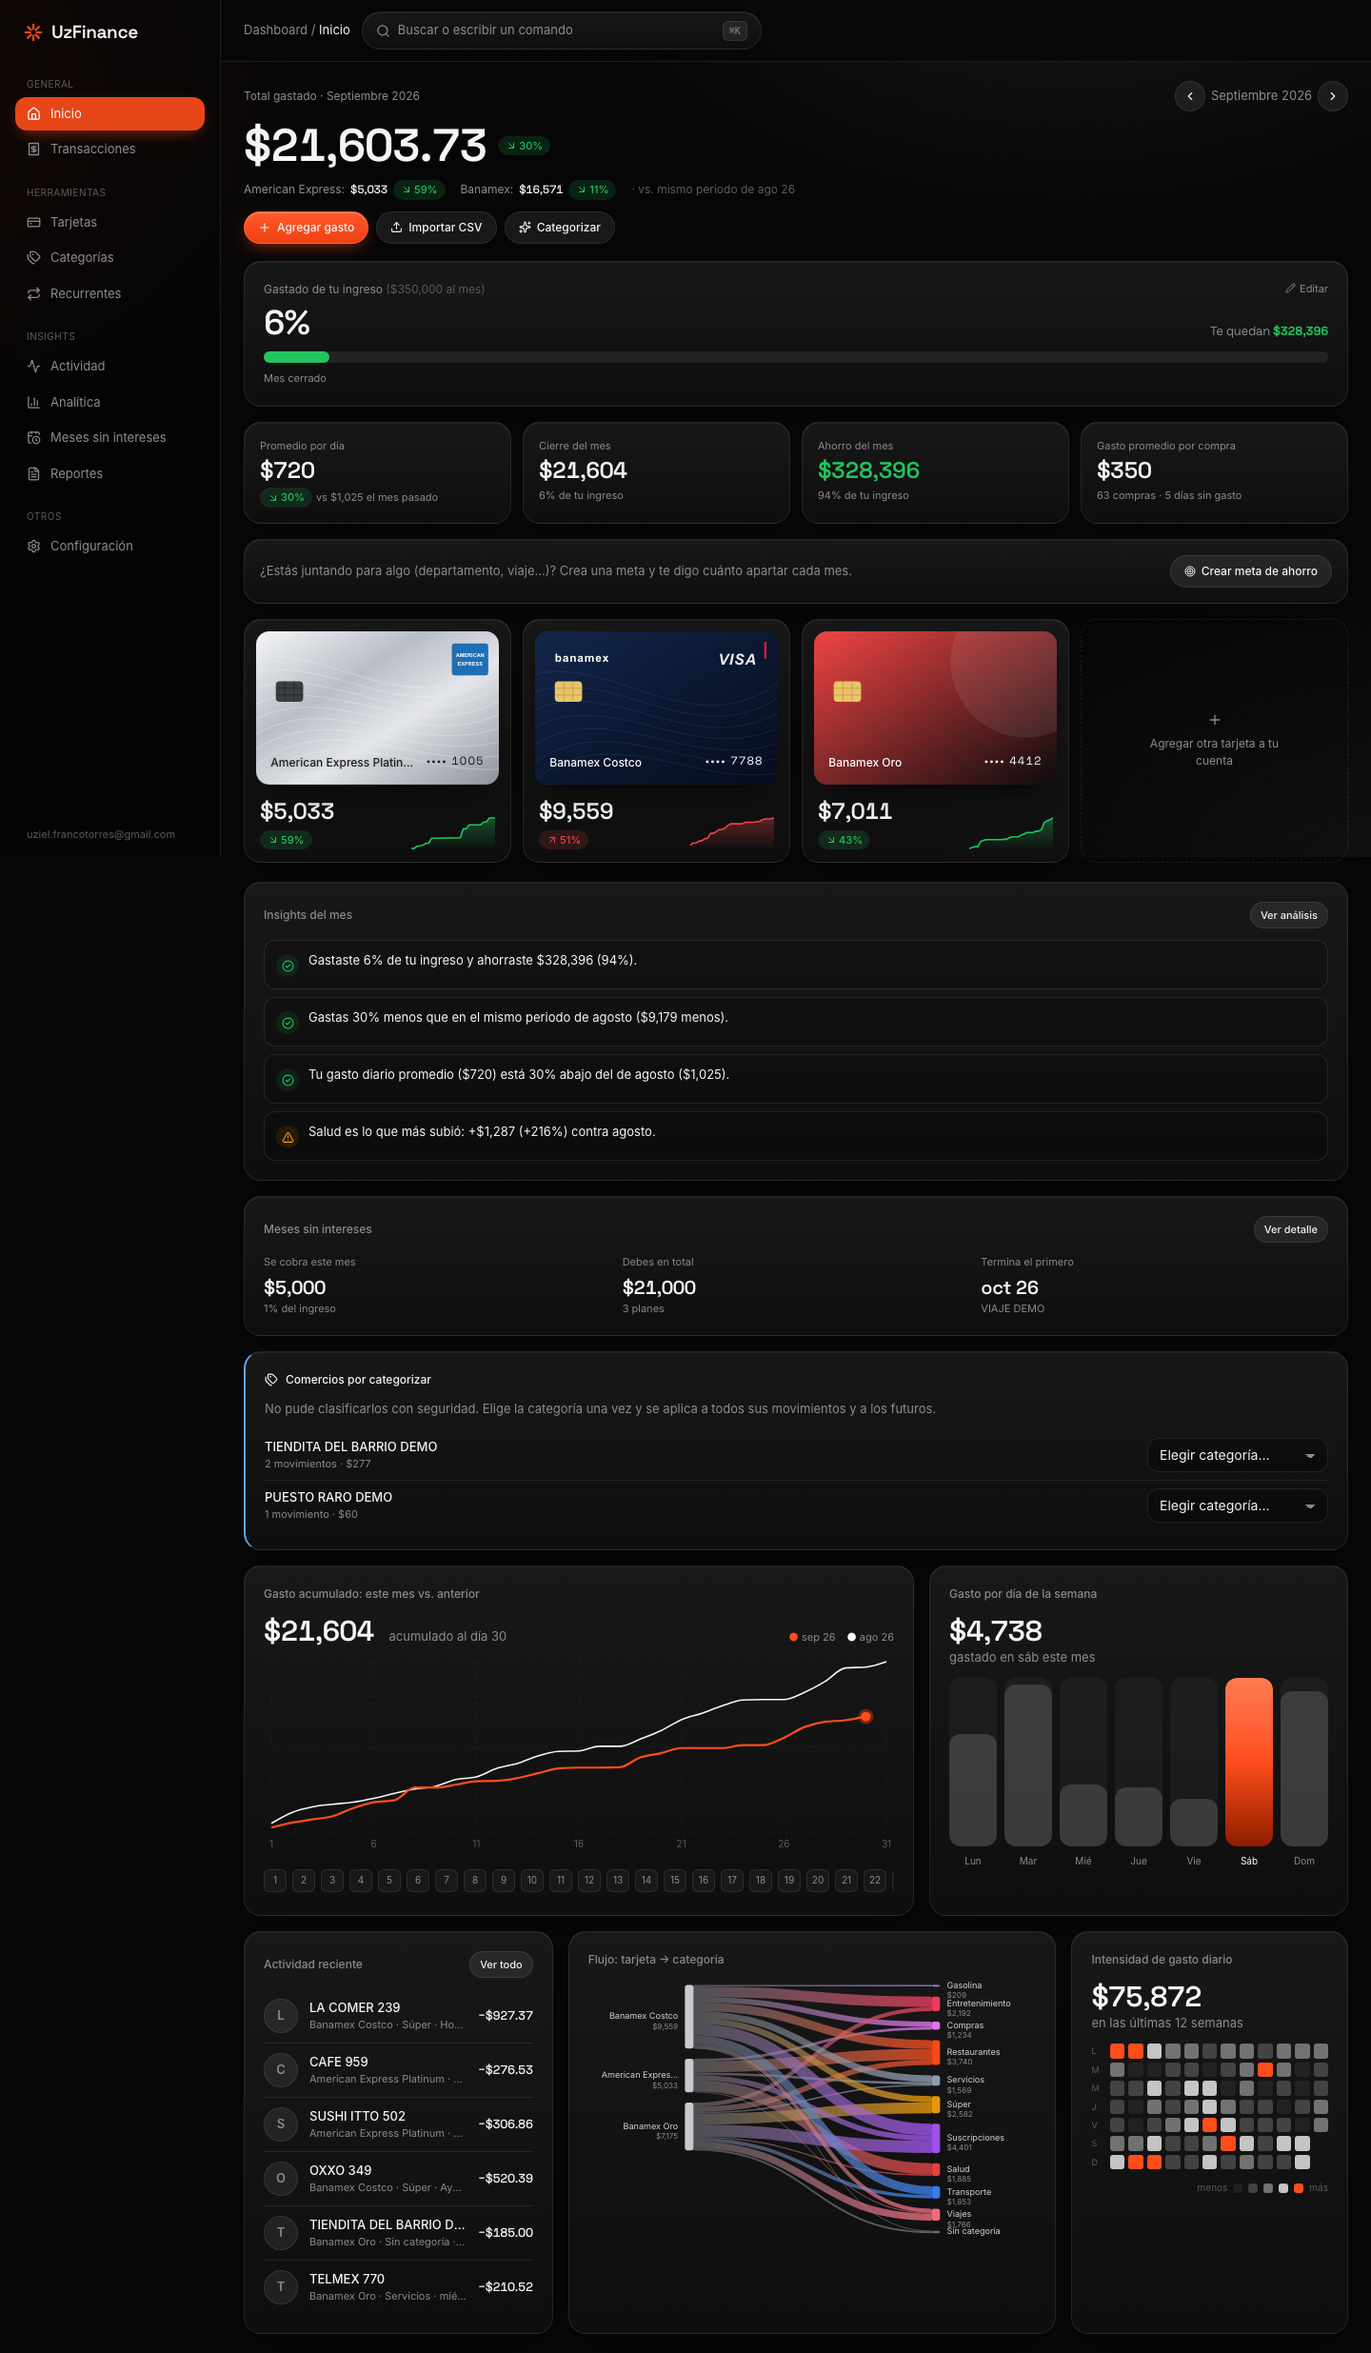
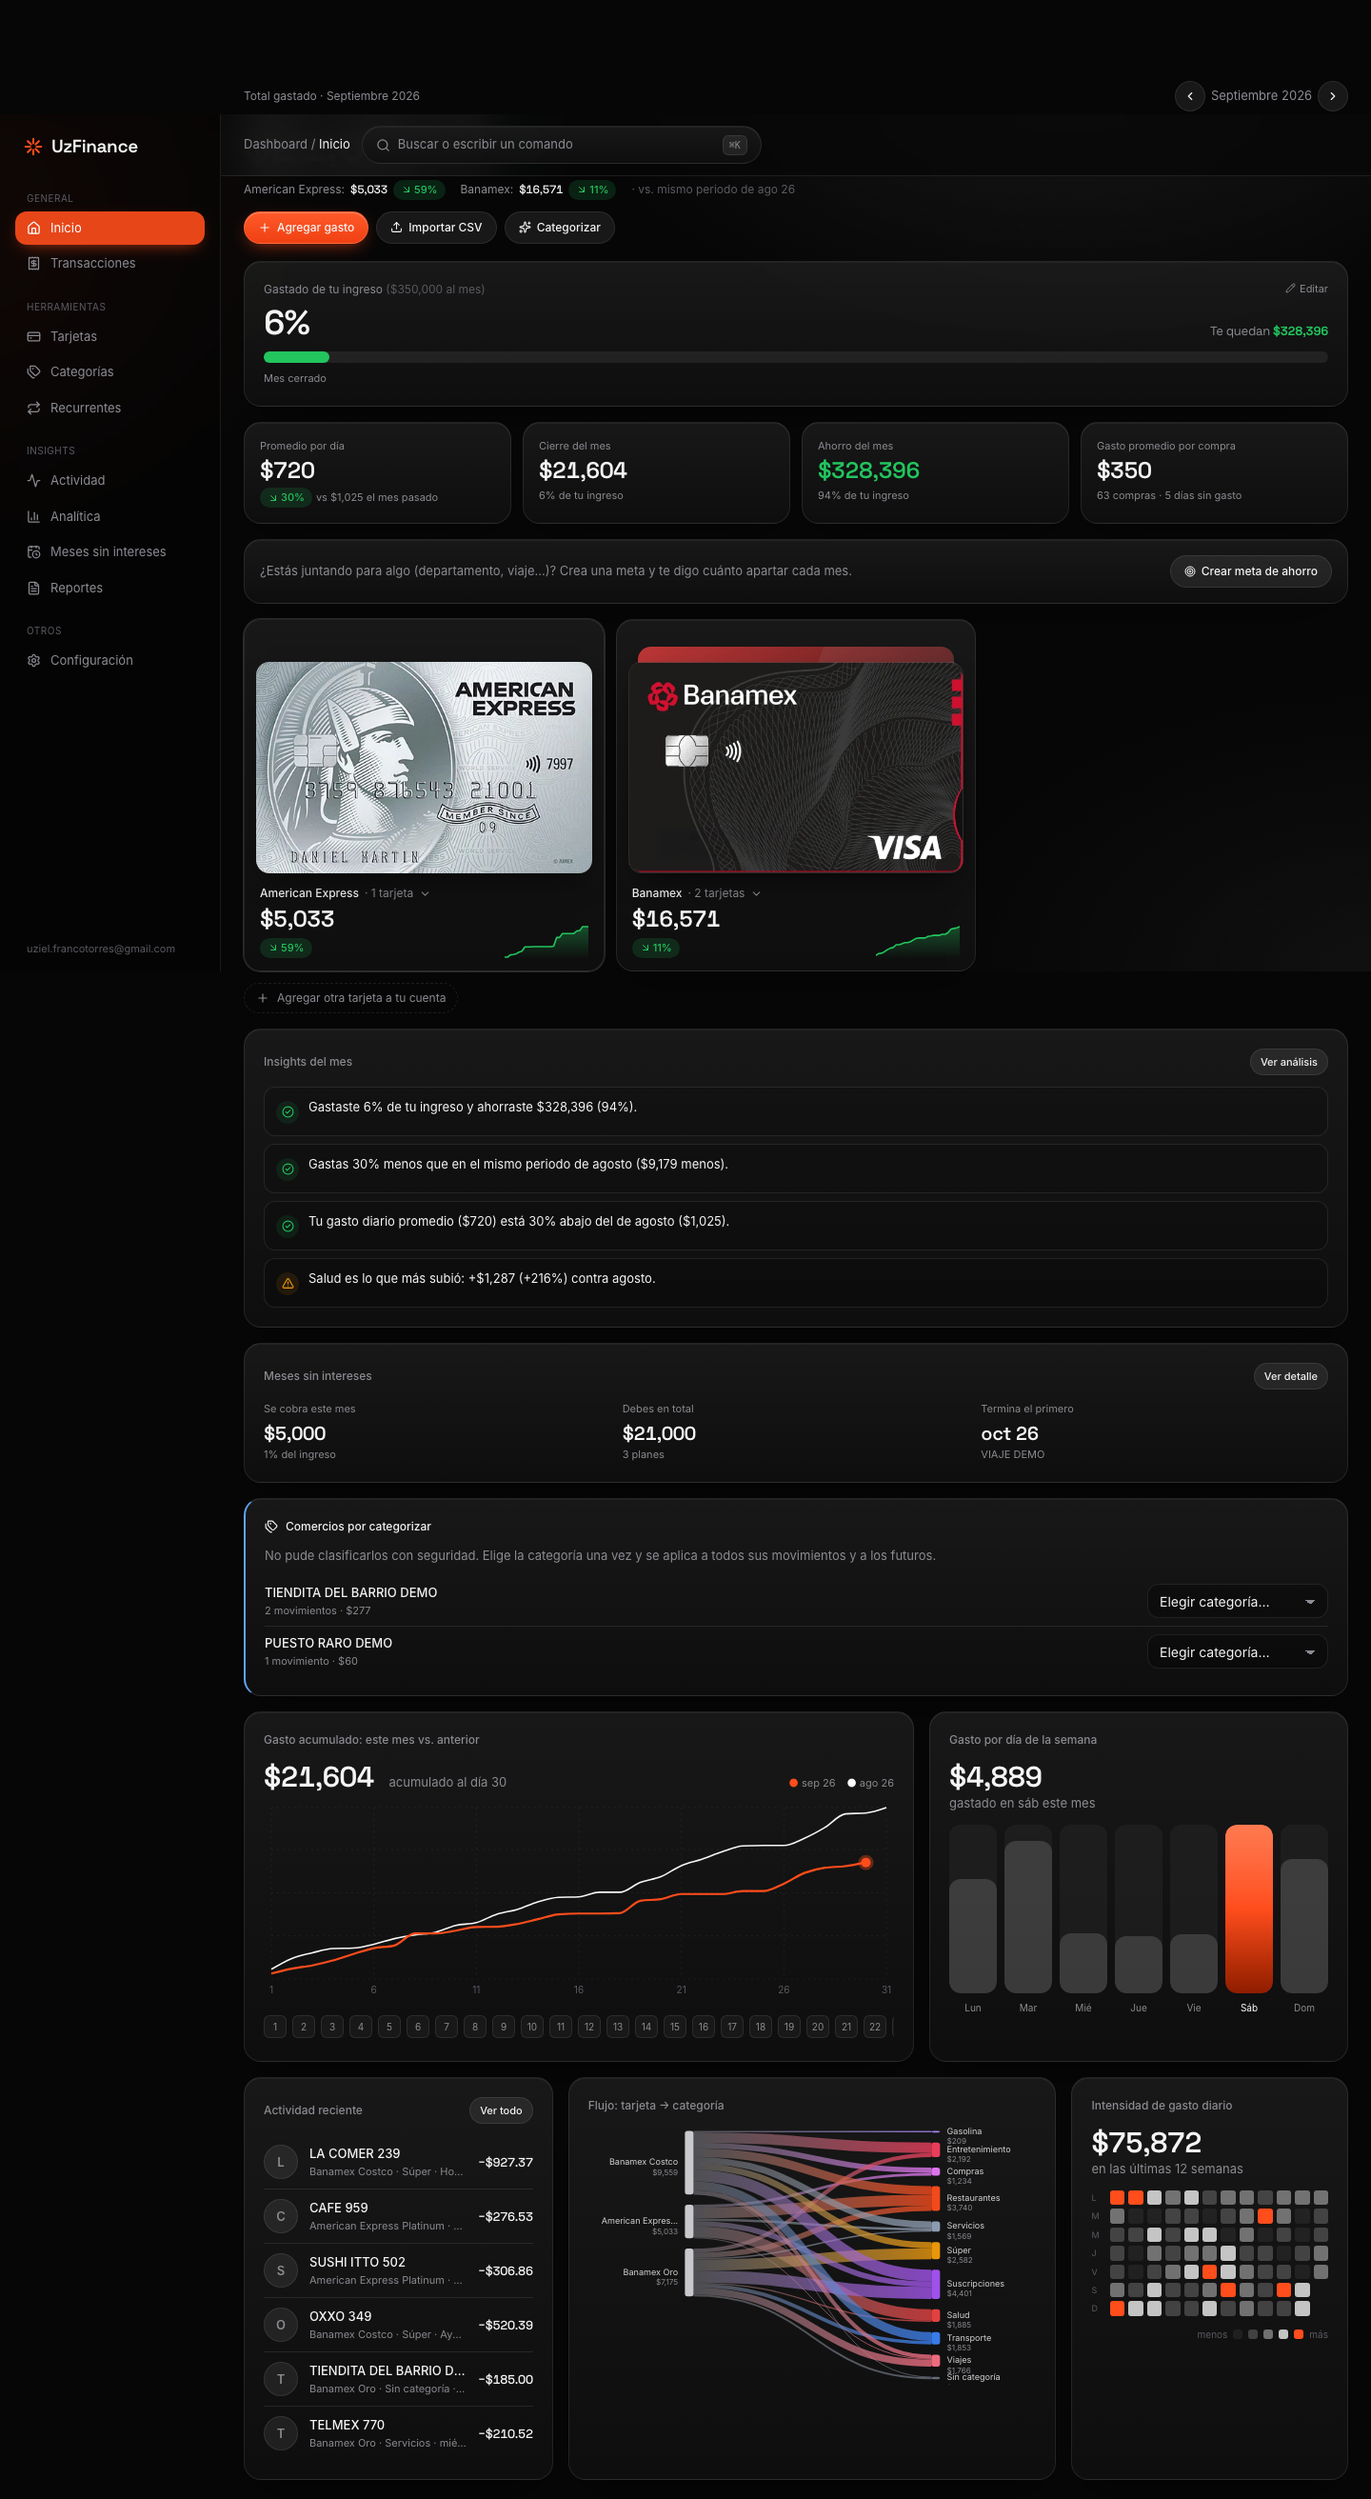
Inicio: tarjetero por banco con las imágenes reales de las tarjetas
- Montón por banco (Amex, Banamex, Nu) que despliega sus tarjetas al tocarlo.
- Fotos reales (webp) para Amex Platinum, Explora, Costco y Nu; débito, Clásica y Domiciliación siguen en SVG.

diff --git a/src/components/CardWallet.tsx b/src/components/CardWallet.tsx
@@ -1,0 +1,138 @@
+"use client";
+
+import { ChevronDown, Plus } from "lucide-react";
+import Link from "next/link";
+import { useState } from "react";
+import { resolveArt } from "@/lib/card-art";
+import { ISSUER_LABEL } from "@/lib/format";
+import { formatMXN } from "@/lib/money";
+import type { CardArtId, Issuer } from "@/lib/types";
+import { CardArt } from "./CardArt";
+import { Sparkline } from "./charts/Sparkline";
+import { Delta } from "./ui/Delta";
+
+export type WalletCard = {
+  id: number;
+  name: string;
+  issuer: Issuer;
+  last4: string | null;
+  color: string;
+  art: CardArtId | null;
+  cents: number;
+  prevCents: number;
+  deltaPct: number | null;
+  spark: number[];
+};
+
+const ORDER: Issuer[] = ["amex", "banamex", "nu", "other"];
+const PEEK = 16; // px que asoma cada tarjeta de atrás
+
+/** Diseños que van al frente del montón: las tarjetas de crédito con foto antes que el débito o las genéricas. */
+const FRONT: CardArtId[] = ["banamex-explora", "banamex-costco", "amex-platinum", "nu", "banamex-clasica", "banamex-debito", "generic"];
+
+/** Hasta 3 diseños distintos (los de crédito primero, y entre iguales los de más gasto) para el montón del tarjetero. */
+function stackOf(cards: WalletCard[]): WalletCard[] {
+  const seen = new Set<string>();
+  const out: WalletCard[] = [];
+  const rank = (c: WalletCard) => FRONT.indexOf(resolveArt(c));
+  for (const c of [...cards].sort((a, b) => rank(a) - rank(b) || b.cents - a.cents)) {
+    const art = resolveArt(c);
+    if (seen.has(art)) continue;
+    seen.add(art);
+    out.push(c);
+    if (out.length === 3) break;
+  }
+  return out;
+}
+
+function sumSpark(cards: WalletCard[]): number[] {
+  const len = Math.max(0, ...cards.map((c) => c.spark.length));
+  return Array.from({ length: len }, (_, i) => cards.reduce((a, c) => a + (c.spark[i] ?? 0), 0));
+}
+
+function Stack({ cards }: { cards: WalletCard[] }) {
+  const n = cards.length;
+  // Misma altura en todos los bancos (frente alineado): siempre se reservan 2 franjas de "asomo".
+  return (
+    <div className="relative" style={{ paddingTop: 2 * PEEK }} aria-hidden>
+      {cards.map((c, k) =>
+        k === 0 ? (
+          <div key={c.id} className="relative" style={{ zIndex: n }}><CardArt card={c} compact bare /></div>
+        ) : (
+          <div key={c.id} className="absolute brightness-[.8]" style={{ top: (2 - k) * PEEK, left: `${k * 3}%`, right: `${k * 3}%`, zIndex: n - k }}>
+            <CardArt card={c} compact bare />
+          </div>
+        ),
+      )}
+    </div>
+  );
+}
+
+/** Tarjetero: un montón por banco; al tocarlo se despliegan sus tarjetas con el detalle. */
+export function CardWallet({ cards }: { cards: WalletCard[] }) {
+  const [open, setOpen] = useState<Issuer | null>(null);
+  const groups = ORDER.map((issuer) => {
+    const list = cards.filter((c) => c.issuer === issuer);
+    const cents = list.reduce((a, c) => a + c.cents, 0);
+    const prevCents = list.reduce((a, c) => a + c.prevCents, 0);
+    return { issuer, list, cents, prevCents, spark: sumSpark(list) };
+  }).filter((g) => g.list.length > 0);
+  const shown = groups.find((g) => g.issuer === open);
+
+  return (
+    <section aria-label="Tarjetas" className="flex flex-col gap-3">
+      <div className={`grid gap-3 ${groups.length >= 4 ? "sm:grid-cols-2 xl:grid-cols-4" : "sm:grid-cols-3"}`}>
+        {groups.map((g) => {
+          const label = ISSUER_LABEL[g.issuer];
+          const isOpen = g.issuer === open;
+          return (
+            <button
+              key={g.issuer}
+              type="button"
+              aria-expanded={isOpen}
+              aria-controls="wallet-detail"
+              aria-label={`${label}: ${g.list.length} ${g.list.length === 1 ? "tarjeta" : "tarjetas"}, ${formatMXN(g.cents)} este mes`}
+              onClick={() => setOpen(isOpen ? null : g.issuer)}
+              data-testid={`wallet-${g.issuer}`}
+              className={`glass flex flex-col gap-3 p-3 text-left transition-shadow focus-visible:outline-2 focus-visible:outline-offset-2 ${isOpen ? "ring-1 ring-white/30" : "hover:ring-1 hover:ring-white/15"}`}
+            >
+              <Stack cards={stackOf(g.list)} />
+              <div className="flex items-end justify-between gap-2 px-1">
+                <div className="min-w-0">
+                  <p className="flex items-center gap-1.5 text-[12px] text-muted">
+                    <span className="font-medium text-fg">{label}</span> · {g.list.length} {g.list.length === 1 ? "tarjeta" : "tarjetas"}
+                    <ChevronDown size={13} aria-hidden className={`transition-transform ${isOpen ? "rotate-180" : ""}`} />
+                  </p>
+                  <p className="num mt-0.5 text-2xl font-semibold">{formatMXN(g.cents, { compact: true })}</p>
+                  <div className="mt-1"><Delta pct={g.prevCents > 0 ? ((g.cents - g.prevCents) / g.prevCents) * 100 : null} label="sin base" /></div>
+                </div>
+                <div className="w-[88px] shrink-0"><Sparkline values={g.spark} label={label} color={g.prevCents > 0 && g.cents > g.prevCents ? "#ef4444" : "#22c55e"} /></div>
+              </div>
+            </button>
+          );
+        })}
+      </div>
+
+      {shown && (
+        <div id="wallet-detail" role="region" aria-label={`Tarjetas ${ISSUER_LABEL[shown.issuer]}`} className="-mx-4 flex snap-x snap-mandatory gap-3 overflow-x-auto px-4 pb-1 sm:mx-0 sm:grid sm:grid-cols-2 sm:overflow-visible sm:px-0 xl:grid-cols-4">
+          {shown.list.map((c) => (
+            <article key={c.id} className="glass flex w-[236px] shrink-0 snap-start flex-col gap-3 p-3 sm:w-auto" aria-label={c.name}>
+              <CardArt card={c} />
+              <div className="flex items-end justify-between gap-2 px-1">
+                <div>
+                  <p className="num text-2xl font-semibold">{formatMXN(c.cents, { compact: true })}</p>
+                  <div className="mt-1"><Delta pct={c.deltaPct} label="sin base" /></div>
+                </div>
+                <div className="w-[88px]"><Sparkline values={c.spark} label={c.name} color={c.deltaPct !== null && c.deltaPct > 0 ? "#ef4444" : "#22c55e"} /></div>
+              </div>
+            </article>
+          ))}
+        </div>
+      )}
+
+      <Link href="/tarjetas?new=1" className="inline-flex items-center gap-2 self-start rounded-full border border-dashed border-line px-3 py-1.5 text-[12px] text-muted transition-colors hover:border-white/25 hover:text-fg">
+        <Plus size={14} aria-hidden /> Agregar otra tarjeta a tu cuenta
+      </Link>
+    </section>
+  );
+}

diff --git a/src/components/CardArt.tsx b/src/components/CardArt.tsx
@@ -126,23 +126,39 @@ function Background({ art, color, id }: { art: CardArtId; color: string; id: str
 
 const LIGHT: ReadonlySet<CardArtId> = new Set(["amex-platinum"]);
 
+/** Diseños con la imagen real de la tarjeta (public/cards). Los demás se dibujan en SVG. */
+export const PHOTO_ART: Partial<Record<CardArtId, string>> = {
+  "amex-platinum": "/cards/amex-platinum.webp",
+  "banamex-explora": "/cards/banamex-explora.webp",
+  "banamex-costco": "/cards/banamex-costco.webp",
+  nu: "/cards/nu.webp",
+};
+
 /**
- * Tarjeta ilustrada (SVG propio, sin imágenes externas): se reconoce de un vistazo
+ * Tarjeta ilustrada (foto real si existe, o SVG propio): se reconoce de un vistazo
  * por emisor/producto y muestra nombre y últimos dígitos encima.
  */
-export function CardArt({ card, className = "", compact = false }: { card: ArtCard; className?: string; compact?: boolean }) {
+export function CardArt({ card, className = "", compact = false, bare = false }: { card: ArtCard; className?: string; compact?: boolean; /** Sin nombre ni dígitos encima (montones del tarjetero). */ bare?: boolean }) {
   const id = useId().replace(/:/g, "");
   const art = resolveArt(card);
-  const ink = LIGHT.has(art) ? "text-[#1c1d21]" : "text-white";
+  const photo = PHOTO_ART[art];
+  const ink = !photo && LIGHT.has(art) ? "text-[#1c1d21]" : "text-white";
   return (
     <div className={`relative aspect-[1.586/1] w-full overflow-hidden rounded-[14px] shadow-[0_14px_30px_-14px_rgb(0_0_0/0.9),inset_0_0_0_1px_rgb(255_255_255/0.12)] ${className}`} data-art={art}>
-      <svg viewBox="0 0 320 202" className="absolute inset-0 h-full w-full" preserveAspectRatio="xMidYMid slice" aria-hidden focusable="false">
-        <Background art={art} color={card.color} id={id} />
-      </svg>
-      <div className={`absolute inset-x-0 bottom-0 flex items-end justify-between gap-2 p-[6%] ${ink}`}>
-        <p className={`truncate font-medium leading-tight drop-shadow-sm ${compact ? "text-[10px]" : "text-[12px]"}`}>{card.name}</p>
-        {card.last4 && <p className={`num shrink-0 tracking-widest ${compact ? "text-[10px]" : "text-[12px]"}`}>•••• {card.last4}</p>}
-      </div>
+      {photo ? (
+        // eslint-disable-next-line @next/next/no-img-element -- imagen estática local ya optimizada (webp)
+        <img src={photo} alt="" className="absolute inset-0 h-full w-full object-cover" draggable={false} />
+      ) : (
+        <svg viewBox="0 0 320 202" className="absolute inset-0 h-full w-full" preserveAspectRatio="xMidYMid slice" aria-hidden focusable="false">
+          <Background art={art} color={card.color} id={id} />
+        </svg>
+      )}
+      {!bare && (
+        <div className={`absolute inset-x-0 bottom-0 flex items-end justify-between gap-2 p-[5%] ${ink}`}>
+          <p className={`min-w-0 truncate font-medium leading-tight ${photo ? "rounded-full bg-black/60 px-2 py-0.5 backdrop-blur-sm" : "drop-shadow-sm"} ${compact ? "text-[10px]" : "text-[12px]"}`}>{card.name}</p>
+          {card.last4 && <p className={`num shrink-0 tracking-widest ${photo ? "rounded-full bg-black/60 px-2 py-0.5 backdrop-blur-sm" : ""} ${compact ? "text-[10px]" : "text-[12px]"}`}>•••• {card.last4}</p>}
+        </div>
+      )}
     </div>
   );
 }

diff --git a/src/app/(app)/page.tsx b/src/app/(app)/page.tsx
@@ -1,11 +1,9 @@
-import { Plus } from "lucide-react";
 import Link from "next/link";
 import { CumulativeChart } from "@/components/charts/CumulativeChart";
 import { Heatmap } from "@/components/charts/Heatmap";
 import { SankeyChart } from "@/components/charts/SankeyChart";
-import { Sparkline } from "@/components/charts/Sparkline";
 import { WeekdayBars } from "@/components/charts/WeekdayBars";
-import { CardArt } from "@/components/CardArt";
+import { CardWallet } from "@/components/CardWallet";
 import { DashboardActions } from "@/components/DashboardActions";
 import { InsightList } from "@/components/insights/InsightList";
 import { KpiTile } from "@/components/insights/Kpi";
@@ -112,27 +110,7 @@ export default async function Home({ searchParams }: PageProps<"/">) {
 
       <GoalPanel goal={goal} income={ins.income} today={localDate(new Date())} projectedSaving={ins.isCurrent && ins.income > 0 ? ins.income - ins.projected : null} />
 
-      <section aria-label="Tarjetas" className="-mx-4 flex snap-x snap-mandatory gap-3 overflow-x-auto px-4 pb-1 sm:mx-0 sm:grid sm:grid-cols-2 sm:overflow-visible sm:px-0 xl:grid-cols-4">
-        {cards.map((c) => {
-          const full = allCards.find((x) => x.id === c.id);
-          return (
-            <article key={c.id} className="glass flex w-[236px] shrink-0 snap-start flex-col gap-3 p-3 sm:w-auto" aria-label={c.name}>
-              <CardArt card={{ name: c.name, issuer: c.issuer, last4: c.last4, color: c.color, art: full?.art ?? null }} />
-              <div className="flex items-end justify-between gap-2 px-1">
-                <div>
-                  <p className="num text-2xl font-semibold">{formatMXN(c.cents, { compact: true })}</p>
-                  <div className="mt-1"><Delta pct={c.deltaPct} label="sin base" /></div>
-                </div>
-                <div className="w-[88px]"><Sparkline values={c.spark} label={c.name} color={c.deltaPct !== null && c.deltaPct > 0 ? "#ef4444" : "#22c55e"} /></div>
-              </div>
-            </article>
-          );
-        })}
-        <Link href="/tarjetas?new=1" className="flex min-h-[112px] w-[200px] shrink-0 snap-start flex-col items-center justify-center gap-2 rounded-[18px] border border-dashed border-line text-center text-muted transition-colors hover:border-white/25 hover:text-fg sm:w-auto">
-          <Plus size={16} aria-hidden />
-          <span className="max-w-[170px] text-[12px]">Agregar otra tarjeta a tu cuenta</span>
-        </Link>
-      </section>
+      <CardWallet cards={cards.map((c) => ({ id: c.id, name: c.name, issuer: c.issuer, last4: c.last4, color: c.color, art: allCards.find((x) => x.id === c.id)?.art ?? null, cents: c.cents, prevCents: c.prevCents, deltaPct: c.deltaPct, spark: c.spark }))} />
 
       <Panel title="Insights del mes" action={<Link href={`/analitica${month === currentMonth() ? "" : `?month=${month}`}`} className="btn !h-7 !px-2.5 text-[11px]">Ver análisis</Link>}>
         <InsightList messages={ins.messages.slice(0, 4)} />

diff --git a/e2e/a-dashboard.spec.ts b/e2e/a-dashboard.spec.ts
@@ -19,7 +19,14 @@ test.describe("dashboard (captura de diseño)", () => {
     await expect(page.getByRole("button", { name: "Agregar gasto" })).toBeVisible();
     await expect(page.getByRole("button", { name: "Importar CSV" })).toBeVisible();
     await expect(page.getByRole("button", { name: "Categorizar" })).toBeVisible();
-    expect(await page.getByRole("article").count()).toBeGreaterThanOrEqual(3); // una card por tarjeta
+    // tarjetero: un montón por banco; al tocarlo se despliegan sus tarjetas
+    await expect(page.getByTestId("wallet-amex")).toBeVisible();
+    await expect(page.getByRole("article")).toHaveCount(0);
+    await page.getByTestId("wallet-amex").click();
+    await expect(page.getByTestId("wallet-amex")).toHaveAttribute("aria-expanded", "true");
+    expect(await page.getByRole("article").count()).toBeGreaterThanOrEqual(1);
+    await page.getByTestId("wallet-amex").click();
+    await expect(page.getByRole("article")).toHaveCount(0);
     await expect(page.getByRole("link", { name: /Agregar otra tarjeta/ })).toBeVisible();
     await expect(page.getByRole("heading", { name: /Gasto acumulado/ })).toBeVisible();
     await expect(page.getByRole("group", { name: "Gasto por día de la semana" }).getByRole("button")).toHaveCount(7);
